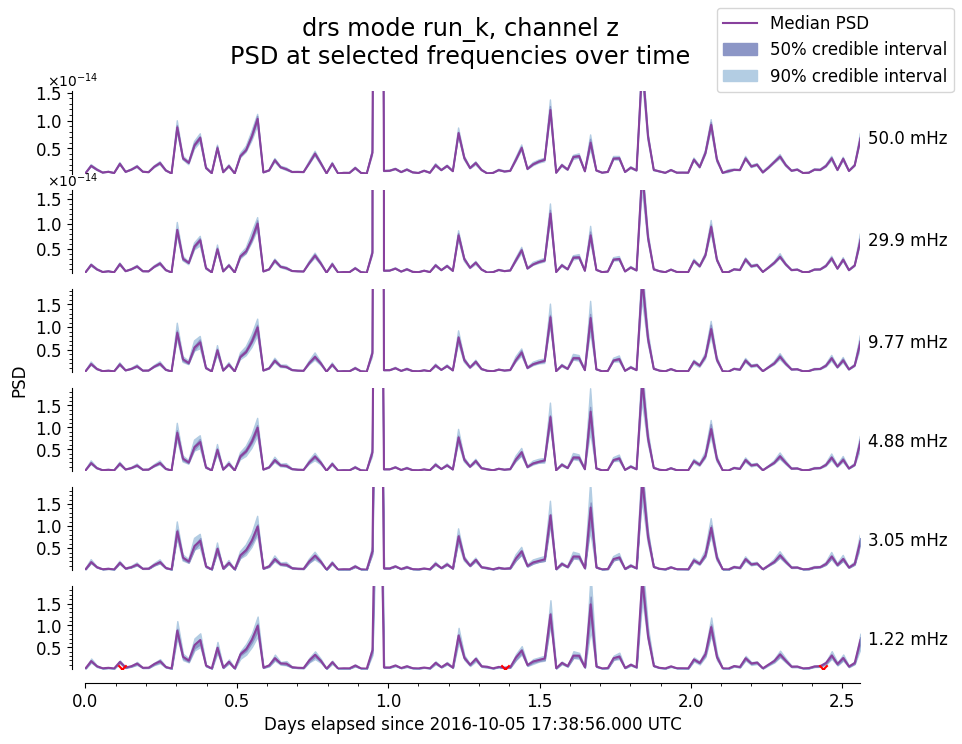
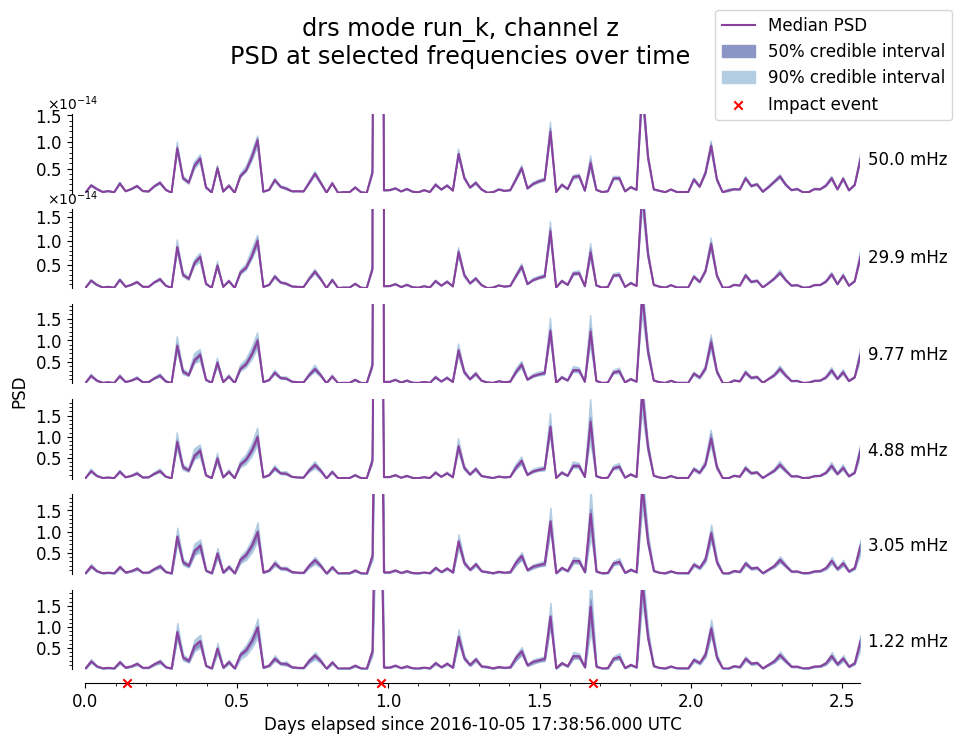
regenerated plots

diff --git a/src/plot.py b/src/plot.py
@@ -333,11 +333,10 @@ def save_freq_slices(run, channel, frequencies, impacts=[],
             labelpad=25)
     
     # Plot micrometeoroid impacts, if any
-    if len(impact_days) > 0:
-        plt.ylim(0, 1)
-        plt.xlim(days_elapsed[0], days_elapsed[-1])
-        impacts = plt.scatter(impact_days, [0-scaled_offset] * len(impact_days), 
-                c='red', marker='x', label='Impact event', clip_on=False)
+    plt.ylim(0, 1)
+    plt.xlim(days_elapsed[0], days_elapsed[-1])
+    impacts = plt.scatter(impact_days, [0-scaled_offset] * len(impact_days), 
+            c='red', marker='x', label='Impact event', clip_on=False)
     
     # Make legend
     handles, labels = ax.get_legend_handles_labels()
